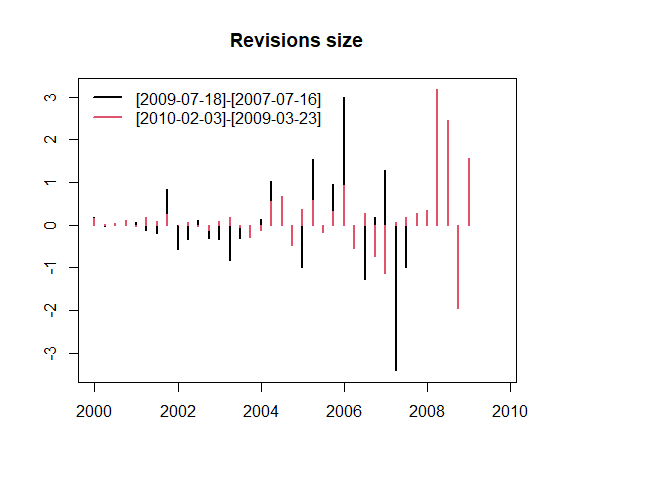
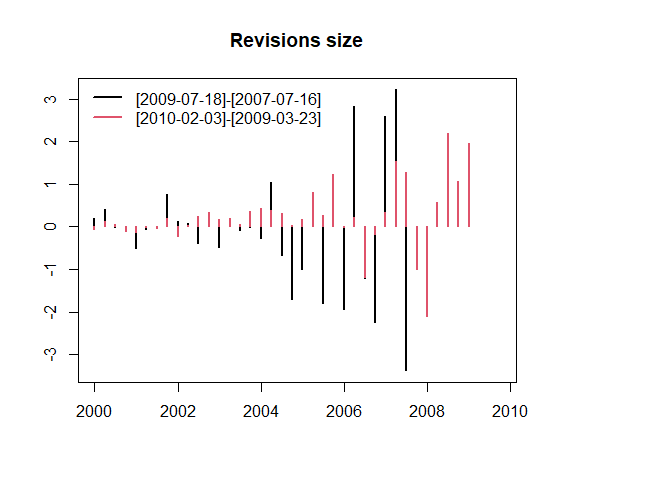
remove CRAN badge while not on CRAN

diff --git a/README.md b/README.md
@@ -5,8 +5,10 @@
 
 <!-- badges: start -->
 
-[![CRAN
-status](https://www.r-pkg.org/badges/version/rjd3revisions)](https://CRAN.R-project.org/package=rjd3revisions)
+<!-- [![CRAN status](https://www.r-pkg.org/badges/version/rjd3revisions)](https://CRAN.R-project.org/package=rjd3revisions) -->
+
+[![Mentioned in Awesome Official
+Statistics](https://awesome.re/mentioned-badge.svg)](https://github.com/SNStatComp/awesome-official-statistics-software)
 
 [![R-CMD-check](https://github.com/rjdverse/rjd3revisions/actions/workflows/R-CMD-check.yaml/badge.svg)](https://github.com/rjdverse/rjd3revisions/actions/workflows/R-CMD-check.yaml)
 [![lint](https://github.com/rjdverse/rjd3revisions/actions/workflows/lint.yaml/badge.svg)](https://github.com/rjdverse/rjd3revisions/actions/workflows/lint.yaml)
@@ -24,7 +26,7 @@ estimates.
 
 ## Installation
 
-Running rjd3 packages requires **Java 21 or higher**. How to set up such
+Running rjd3 packages requires **Java 17 or higher**. How to set up such
 a configuration in R is explained
 [here](https://jdemetra-new-documentation.netlify.app/#Rconfig)
 
@@ -36,6 +38,7 @@ To get the current stable version (from the latest release):
 
 ``` r
 # install.packages("remotes")
+remotes::install_github("rjdverse/rjd3toolkit@*release")
 remotes::install_github("rjdverse/rjd3revisions@*release", build_vignettes = TRUE)
 ```
 
@@ -52,7 +55,7 @@ You can install the development version of **rjd3revisions** from
 
 ``` r
 # install.packages("remotes")
-remotes::install_github("rjdverse/rjd3revisions", build_vignettes = TRUE)
+remotes::install_github("rjdverse/rjd3revisions")
 ```
 
 ## Usage
@@ -60,8 +63,8 @@ remotes::install_github("rjdverse/rjd3revisions", build_vignettes = TRUE)
 ``` r
 library("rjd3revisions")
 #> 
-#> Attaching package: 'rjd3revisions'
-#> The following object is masked from 'package:utils':
+#> Attachement du package : 'rjd3revisions'
+#> L'objet suivant est masqué depuis 'package:utils':
 #> 
 #>     View
 ```
@@ -110,9 +113,9 @@ set.seed(7)
 
 # Examples
 long_view <- simulate_long(
-    periodicity = 4, 
-    n_period = 4 * 10, 
-    n_revision = 7, 
+    periodicity = 4,
+    n_period = 4 * 10,
+    n_revision = 7,
     start_period = as.Date("2000-01-01")
 )
 ```
@@ -125,7 +128,7 @@ vintages <- create_vintages(long_view, periodicity = 4)
 plot(vintages, lwd = 2)
 ```
 
-<img src="man/figures/README-unnamed-chunk-7-1.png" width="100%" />
+<img src="man/figures/README-unnamed-chunk-7-1.png" alt="" width="100%" />
 
 ``` r
 
@@ -133,7 +136,7 @@ revisions <- get_revisions(vintages, gap = 2)
 plot(revisions)
 ```
 
-<img src="man/figures/README-unnamed-chunk-7-2.png" width="100%" />
+<img src="man/figures/README-unnamed-chunk-7-2.png" alt="" width="100%" />
 
 and make the analysis
 
@@ -142,48 +145,48 @@ rslt <- revision_analysis(vintages, gap = 1, view = "diagonal", n.releases = 3)
 
 print(rslt)
 #>                                            Transf. [Release[2]]-[Release[1]]
-#> Relevancy - Theil U2                          None              Good (0.339)
-#> Bias1 T-test                                  None              Good (0.798)
-#> Bias2 Augmented T-test                        None              Good (0.823)
-#> Bias3 SlopeAndDrift (Ols L on P) - Mean       None              Good (0.347)
-#> Bias3 SlopeAndDrift (Ols L on P) - Reg.       None              Good (0.232)
-#> Efficiency1 (Ols R on P) - Mean            Delta 1              Good (0.166)
-#> Efficiency1 (Ols R on P) - Reg.            Delta 1              Good (0.107)
+#> Relevancy - Theil U2                          None            Severe (1.982)
+#> Bias1 T-test                                  None              Good (0.891)
+#> Bias2 Augmented T-test                        None              Good (0.886)
+#> Bias3 SlopeAndDrift (Ols L on P) - Mean       None              Good (0.881)
+#> Bias3 SlopeAndDrift (Ols L on P) - Reg.       None            Severe (0.000)
+#> Efficiency1 (Ols R on P) - Mean               None              Good (0.881)
+#> Efficiency1 (Ols R on P) - Reg.               None            Severe (0.000)
 #> Efficiency2 (Ols Rv on Rv_1) - Mean           None                          
 #> Efficiency2 (Ols Rv on Rv_1) - Reg.           None                          
 #> Orthogonality1 (Ols Rv on Rv_(1:p)) - Mean    None                          
 #> Orthogonality1 (Ols Rv on Rv_(1:p)) - Reg.    None                          
 #> Orthogonality2 (Ols Rv on Rv_k.) - Mean       None                          
 #> Orthogonality2 (Ols Rv on Rv_k) - Reg.        None                          
-#> Orthogonality3 AutoCorrelation (Ljung-Box)    None              Good (0.417)
-#> Orthogonality4 Seasonality (Ljung-Box)     Delta 1              Good (0.993)
-#> Orthogonality4 Seasonality (Friedman)      Delta 1              Good (0.137)
-#> SignalVsNoise1 - Noise (Ols R on P)        Delta 1              Good (0.082)
-#> SignalVsNoise2 - Signal (Ols R on L)       Delta 1         Uncertain (0.053)
+#> Orthogonality3 AutoCorrelation (Ljung-Box)    None              Good (0.081)
+#> Orthogonality4 Seasonality (Ljung-Box)     Delta 1              Good (0.972)
+#> Orthogonality4 Seasonality (Friedman)      Delta 1              Good (0.162)
+#> SignalVsNoise1 - Noise (Ols R on P)           None            Severe (0.000)
+#> SignalVsNoise2 - Signal (Ols R on L)          None         Uncertain (0.511)
 #>                                            [Release[3]]-[Release[2]]
-#> Relevancy - Theil U2                                    Good (0.225)
-#> Bias1 T-test                                            Good (0.805)
-#> Bias2 Augmented T-test                                  Good (0.806)
-#> Bias3 SlopeAndDrift (Ols L on P) - Mean                 Good (0.584)
-#> Bias3 SlopeAndDrift (Ols L on P) - Reg.                 Good (0.624)
-#> Efficiency1 (Ols R on P) - Mean                         Good (0.300)
-#> Efficiency1 (Ols R on P) - Reg.                         Good (0.240)
-#> Efficiency2 (Ols Rv on Rv_1) - Mean                     Good (0.818)
-#> Efficiency2 (Ols Rv on Rv_1) - Reg.                     Good (0.298)
-#> Orthogonality1 (Ols Rv on Rv_(1:p)) - Mean              Good (0.818)
-#> Orthogonality1 (Ols Rv on Rv_(1:p)) - Reg.              Good (0.702)
-#> Orthogonality2 (Ols Rv on Rv_k.) - Mean                 Good (0.818)
-#> Orthogonality2 (Ols Rv on Rv_k) - Reg.                  Good (0.298)
-#> Orthogonality3 AutoCorrelation (Ljung-Box)              Good (0.999)
-#> Orthogonality4 Seasonality (Ljung-Box)                  Good (1.000)
-#> Orthogonality4 Seasonality (Friedman)                   Good (0.769)
-#> SignalVsNoise1 - Noise (Ols R on P)                     Good (0.248)
-#> SignalVsNoise2 - Signal (Ols R on L)               Uncertain (0.856)
+#> Relevancy - Theil U2                                    Good (0.761)
+#> Bias1 T-test                                            Good (0.665)
+#> Bias2 Augmented T-test                                  Good (0.666)
+#> Bias3 SlopeAndDrift (Ols L on P) - Mean                 Good (0.473)
+#> Bias3 SlopeAndDrift (Ols L on P) - Reg.               Severe (0.000)
+#> Efficiency1 (Ols R on P) - Mean                         Good (0.473)
+#> Efficiency1 (Ols R on P) - Reg.                       Severe (0.000)
+#> Efficiency2 (Ols Rv on Rv_1) - Mean                     Good (0.678)
+#> Efficiency2 (Ols Rv on Rv_1) - Reg.                     Good (0.219)
+#> Orthogonality1 (Ols Rv on Rv_(1:p)) - Mean              Good (0.678)
+#> Orthogonality1 (Ols Rv on Rv_(1:p)) - Reg.              Good (0.781)
+#> Orthogonality2 (Ols Rv on Rv_k.) - Mean                 Good (0.678)
+#> Orthogonality2 (Ols Rv on Rv_k) - Reg.                  Good (0.219)
+#> Orthogonality3 AutoCorrelation (Ljung-Box)              Good (0.548)
+#> Orthogonality4 Seasonality (Ljung-Box)                  Good (0.914)
+#> Orthogonality4 Seasonality (Friedman)                   Good (0.162)
+#> SignalVsNoise1 - Noise (Ols R on P)                   Severe (0.000)
+#> SignalVsNoise2 - Signal (Ols R on L)                    Good (0.044)
 # summary(rslt)
 View(rslt)
 ```
 
-<img src="man/figures/README-unnamed-chunk-9-1.png" width="100%" />
+<img src="man/figures/README-unnamed-chunk-9-1.png" alt="" width="100%" />
 
 Finally to create a report and get a summary of the results, you can use
 
